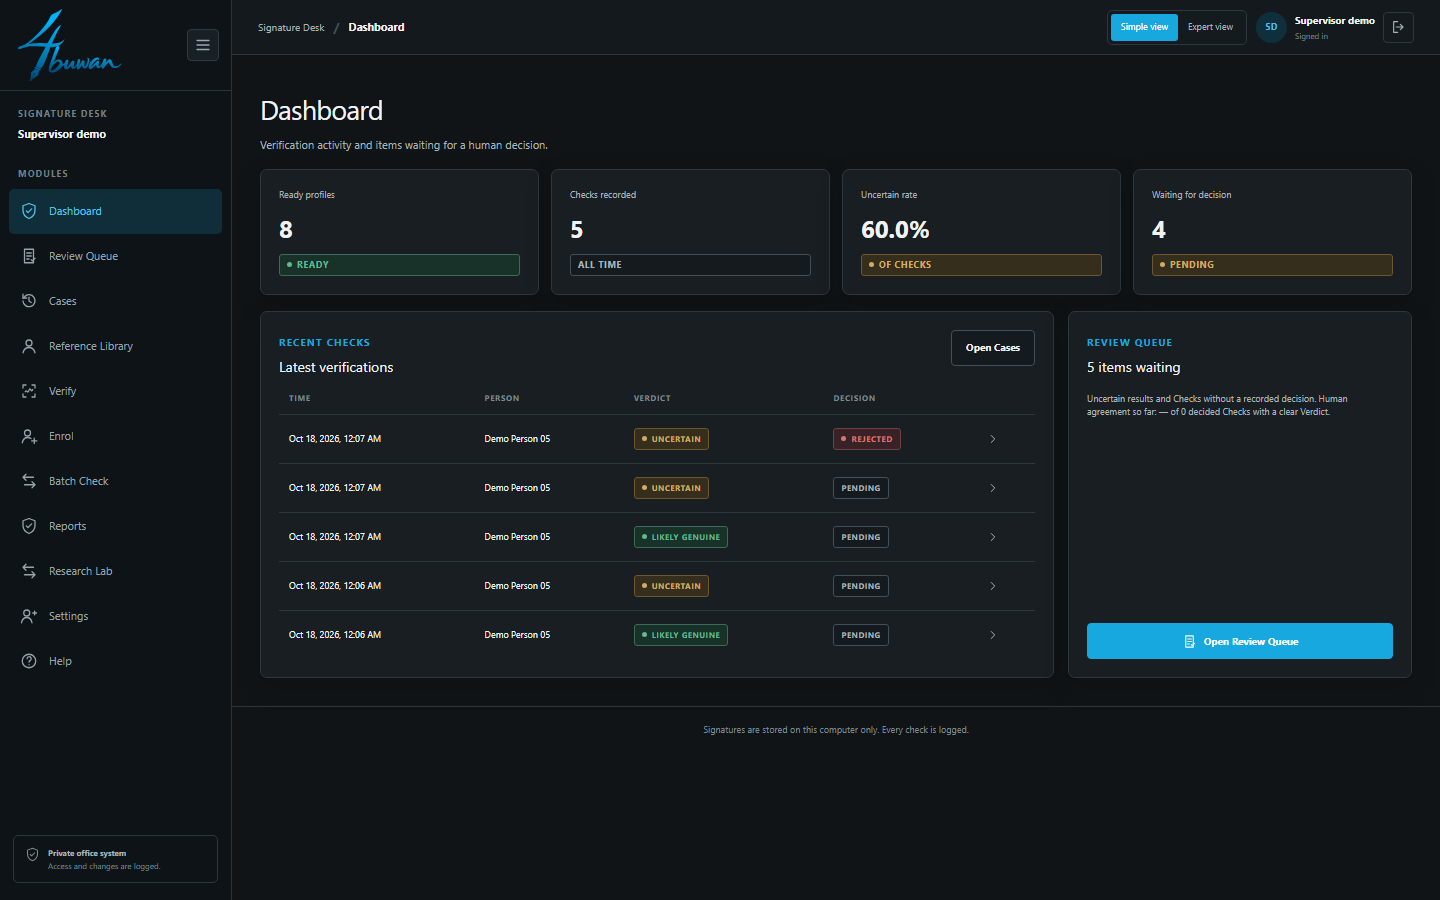
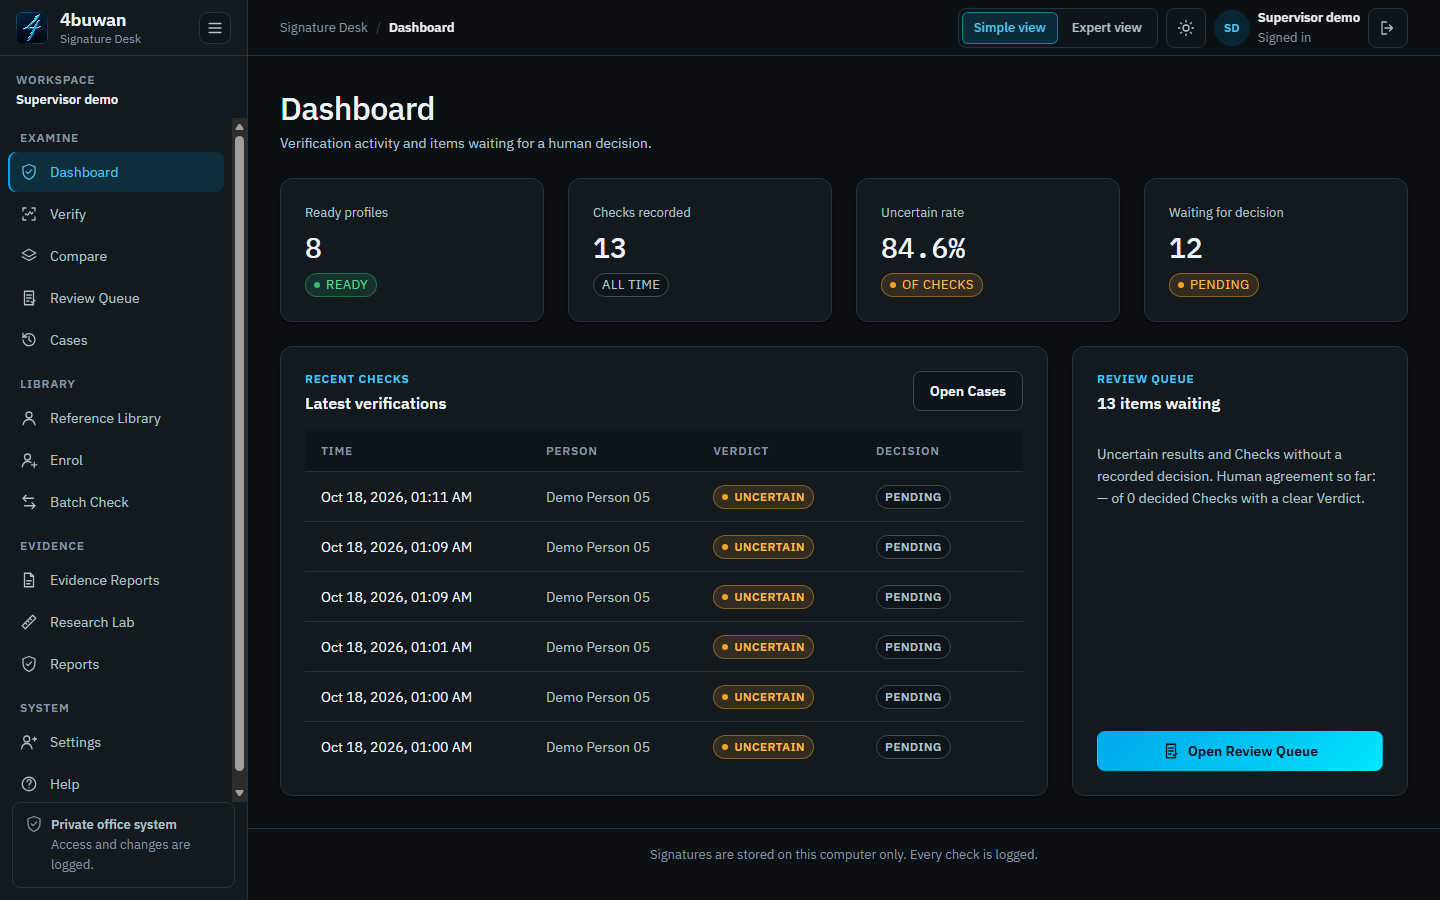
Refresh README screenshots for both presets on desktop and phone, update testing guide

diff --git a/TESTING.md b/TESTING.md
@@ -13,11 +13,12 @@ pip install -r requirements.txt
 pytest -q
 ```
 
-Expected: **21 passed**. The tests check that:
+Expected: **28 passed**. The tests check that:
 - the service gives the **same AUC as the research notebook** for the reference writers (B, G, J match exactly);
 - real CEDAR images turn into the same features and scores as the notebook (difference = 0);
 - enrol → verify → record decision works through the API, plus the preprocessing, stats, performance,
-  archive and delete endpoints.
+  archive, delete, notes, attachments and report-log endpoints;
+- stored image paths are relative to the data folder, and older absolute paths are migrated once.
 
 The engine constants (`backend/sigdesk_engine/artifacts/`) and the test images (`backend/tests/fixtures/`)
 are distributed separately and must be in place before the tests or the service can run.
@@ -40,21 +41,27 @@ pnpm dev
 
 Open http://localhost:8443. The dev server forwards `/api` to port 8000.
 
+Layout check (no sideways scrolling at 360–1440 px; uses the installed Microsoft Edge):
+
+```
+pnpm test:ui
+```
+
 ## 3. Manual test script
 
 | # | Do this | You should see |
 |---|---|---|
-| 1 | Login → **Examiner demo** | Sidebar: Verify, Cases, Reference Library, Enrol, Batch Check, Help |
-| 2 | Log out → **Supervisor demo** | Dashboard first, plus Review Queue, Reports, Research Lab, Settings |
+| 1 | Login → **Examiner demo** | Workbench first; sidebar groups Examine, Library, Evidence, System |
+| 2 | Log out → **Supervisor demo** | Dashboard first, plus Reports and Settings |
 | 3 | Reference Library | 8 "Demo Person" entries, each with a consistency label |
 | 4 | Verify → Demo Person 05 → upload `full_org/original_5_14.png` | A verdict for a genuine sample *not* used for enrolment |
 | 5 | Same person → upload `full_forg/forgeries_5_3.png` | A verdict for a forgery |
-| 6 | Switch to **Expert view** | Panels A–H with real numbers; the policy line says *provisional* |
+| 6 | Switch to **Expert view** (or press E) | Panels A–H with real numbers; the policy line says *provisional* |
 | 7 | Upload a blank white image | "Blank or almost blank" message, Run verification is disabled |
 | 8 | Enrol a new person with only 11 images | Create profile is blocked with the reason |
 | 9 | Cases → open the check from step 4 → Record decision "Accepted" | Decision and timeline saved |
 | 10 | Stop uvicorn (Ctrl+C) and wait a few seconds | "The analysis service is not running" banner |
-| 11 | Research Lab → Method comparison → All | 0.772 / 0.831 / 0.837 |
+| 11 | Research Lab → Method comparison → All | Our method · R1-WAW 0.837, shared yardstick 0.831, standard 0.772 |
 | 12 | Research Lab → Dataset check → Bengali | Shortcut 0.936 is higher than our method, with the warning text |
 
 Use images numbered **13–24** and the forgeries for testing: images 1–12 are the enrolment samples.

diff --git a/README.md b/README.md
@@ -25,11 +25,12 @@
 
 ### Examiner Workspace
 
-Find a person, add a questioned signature and get an advisory verdict with the evidence behind it.
+A workbench of today's checks and open cases, Verify with an inspectable verdict, and a manual Compare tool for any set of images.
 
 </td>
 <td width="50%">
-  <img src="docs/image/preset-examiner.png" alt="Examiner workspace" width="100%" />
+  <img src="docs/image/preset-examiner.png" alt="Examiner workspace on desktop" width="74%" valign="top" />
+  <img src="docs/image/preset-examiner-phone.png" alt="Examiner workspace on a phone" width="22%" valign="top" />
 </td>
 </tr>
 <tr>
@@ -37,11 +38,12 @@ Find a person, add a questioned signature and get an advisory verdict with the e
 
 ### Supervisor Overview
 
-Follow checks, uncertain results and human decisions, and review the model's research results.
+Oversee checks, uncertain results and human decisions, with reports over time and the model's research results.
 
 </td>
 <td width="50%">
-  <img src="docs/image/preset-supervisor.png" alt="Supervisor dashboard" width="100%" />
+  <img src="docs/image/preset-supervisor.png" alt="Supervisor dashboard on desktop" width="74%" valign="top" />
+  <img src="docs/image/preset-supervisor-phone.png" alt="Supervisor dashboard on a phone" width="22%" valign="top" />
 </td>
 </tr>
 <tr>
